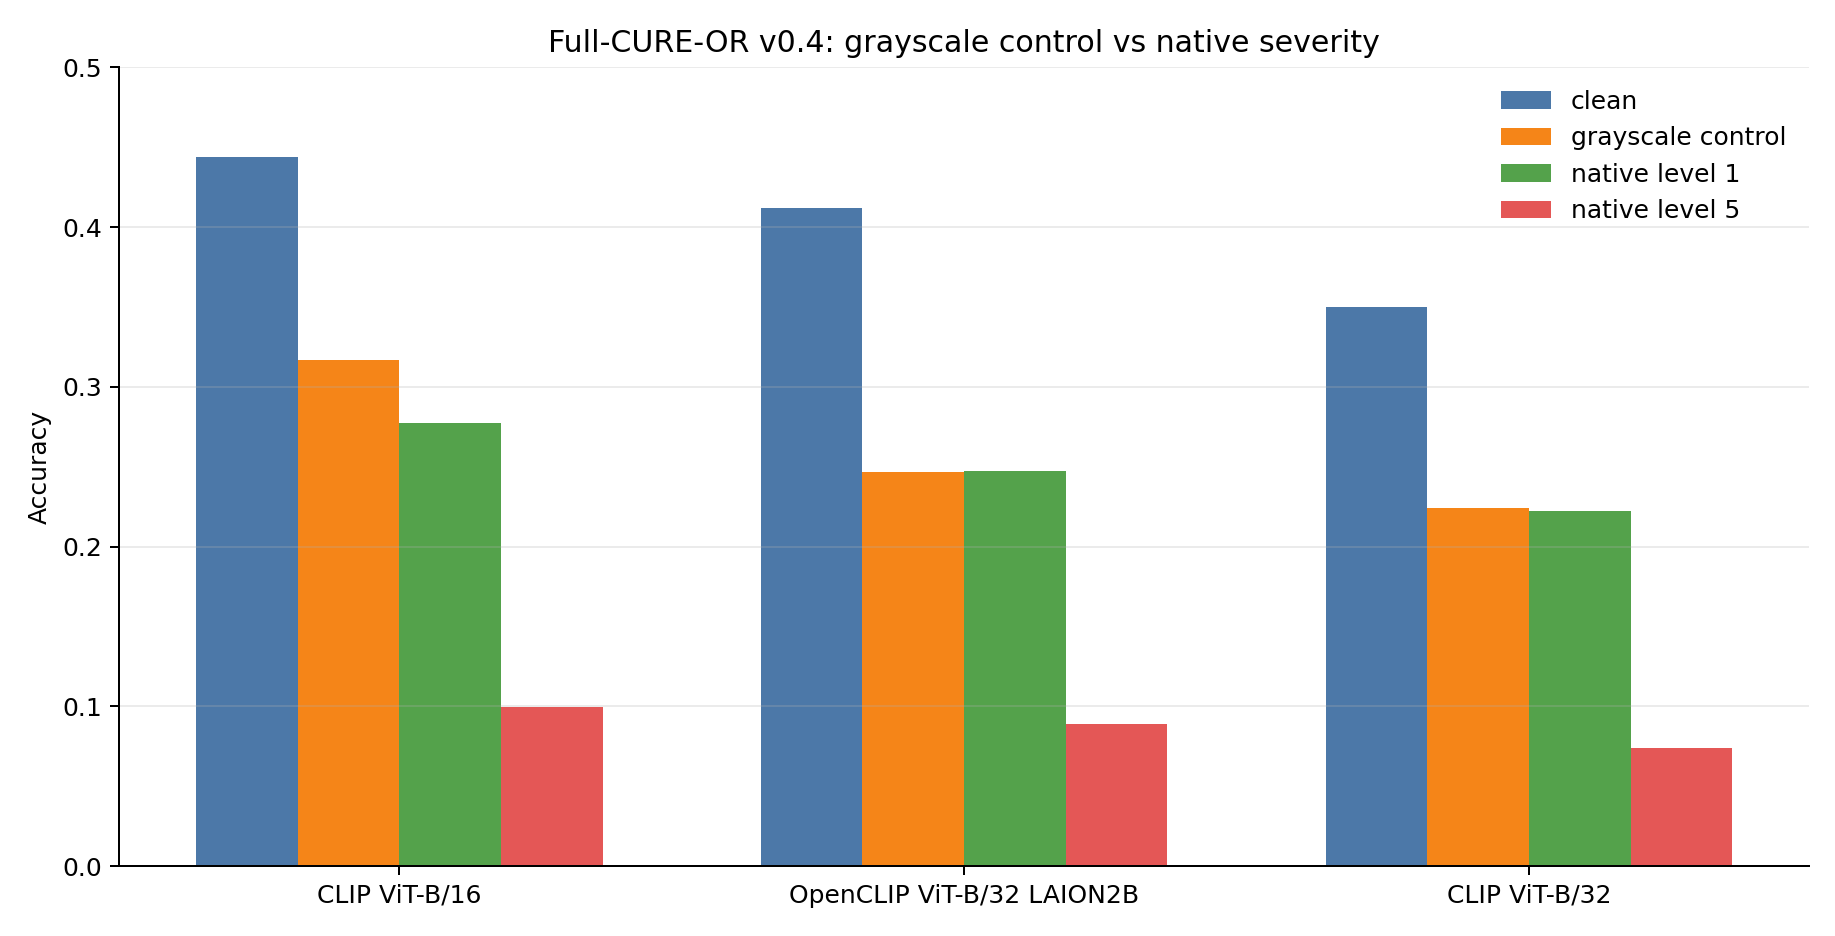
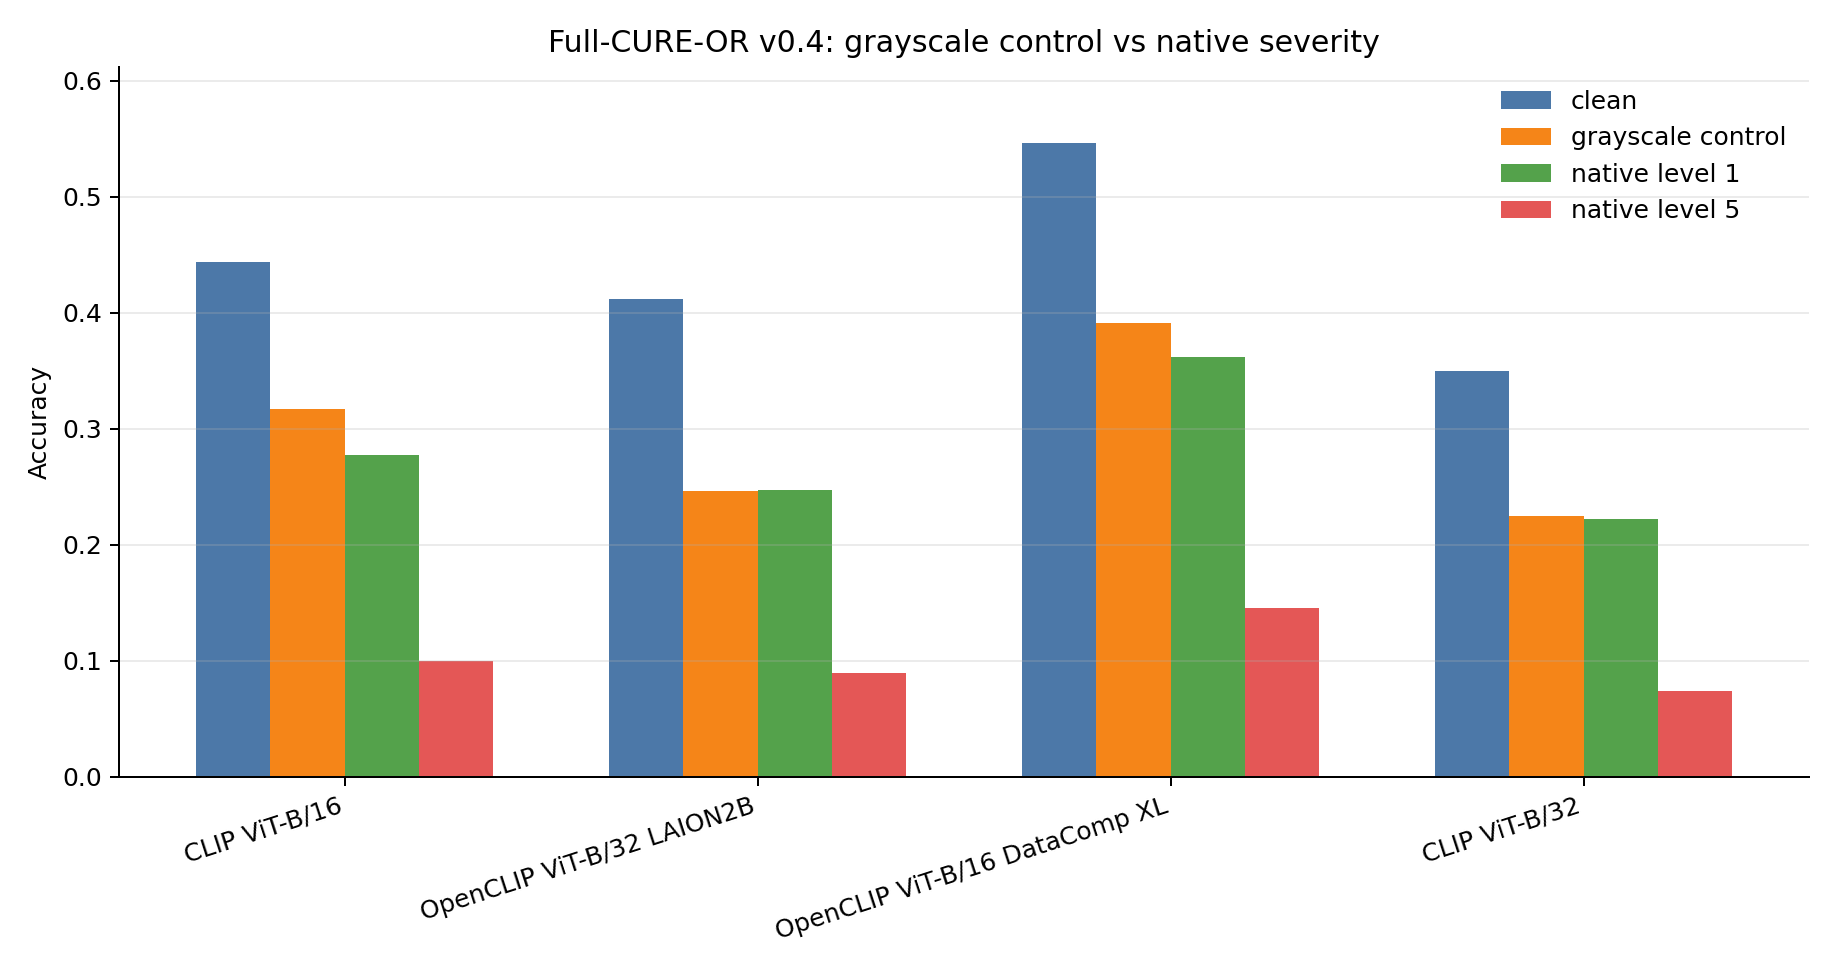
Add DataComp XL grayscale control

diff --git a/scripts/evaluate_openclip_zero_shot.py b/scripts/evaluate_openclip_zero_shot.py
@@ -46,10 +46,16 @@ def main() -> int:
         rows = rows[: args.limit]
 
     device = choose_device(args.device, torch)
+    pretrained_source = config["pretrained"]
+    if config.get("pretrained_path"):
+        pretrained_source = str(resolve_project_path(config["pretrained_path"]))
+
     print(f"Loading {config['model_name']} {config['pretrained']} on {device}")
+    if pretrained_source != config["pretrained"]:
+        print(f"Using local checkpoint: {pretrained_source}")
     model, _, preprocess = open_clip.create_model_and_transforms(
         config["model_name"],
-        pretrained=config["pretrained"],
+        pretrained=pretrained_source,
     )
     tokenizer = open_clip.get_tokenizer(config["model_name"])
     model = model.to(device)
@@ -182,7 +188,7 @@ def write_csv(path: Path, rows: list[dict]) -> None:
         path.write_text("", encoding="utf-8")
         return
     with path.open("w", newline="", encoding="utf-8") as handle:
-        writer = csv.DictWriter(handle, fieldnames=list(rows[0].keys()))
+        writer = csv.DictWriter(handle, fieldnames=list(rows[0].keys()), lineterminator="\n")
         writer.writeheader()
         writer.writerows(rows)
 

diff --git a/reports/full_cure_or_grayscale_control_v04.md b/reports/full_cure_or_grayscale_control_v04.md
@@ -28,12 +28,14 @@ disk.
 | --- | ---: | ---: | ---: | ---: | ---: | ---: |
 | CLIP ViT-B/16 | 0.4440 | 0.3166 | 0.1274 | 0.2772 | 0.0994 | 0.2172 |
 | OpenCLIP ViT-B/32 LAION2B | 0.4120 | 0.2465 | 0.1655 | 0.2473 | 0.0890 | 0.1575 |
+| OpenCLIP ViT-B/16 DataComp XL | 0.5460 | 0.3908 | 0.1552 | 0.3620 | 0.1451 | 0.2456 |
 | CLIP ViT-B/32 | 0.3500 | 0.2244 | 0.1256 | 0.2220 | 0.0741 | 0.1503 |
 
 The prototype-extended control comparison is generated separately in
 `results/full_cure_or_grayscale_control_v04_with_prototypes_comparison.csv`
 and summarized in `reports/full_cure_or_prototype_v04.md`. That extended table
-now includes HGNetV2-B0, MobileNetV3-Small, ConvNeXt-Tiny, and DINOv2 ViT-S/14.
+now includes OpenCLIP ViT-B/16 DataComp XL, HGNetV2-B0, MobileNetV3-Small,
+ConvNeXt-Tiny, and DINOv2 ViT-S/14.
 
 ## Interpretation
 
@@ -42,8 +44,10 @@ level-5 collapse.
 
 For CLIP ViT-B/16, grayscale no-challenge accuracy is 0.3166, above native
 level-1 mean accuracy of 0.2772 and far above native level-5 mean accuracy of
-0.0994. For OpenCLIP and CLIP ViT-B/32, grayscale control is almost equal to
-native level 1, but still much higher than level 5.
+0.0994. For OpenCLIP ViT-B/32 LAION2B and CLIP ViT-B/32, grayscale control is
+almost equal to native level 1, but still much higher than level 5. DataComp XL
+shows the same separation at a stronger baseline level: grayscale no-challenge
+accuracy is 0.3908, while native level-5 mean accuracy is 0.1451.
 
 This supports a cleaner paper claim: grayscale/channel removal contributes to
 the difficulty of grayscale native challenges, but severe blur, noise, dirty
@@ -58,6 +62,7 @@ grayscale conversion alone.
 - `configs/clip_vit_b16_full_cure_or_grayscale_control_v04.json`
 - `configs/clip_vit_b32_full_cure_or_grayscale_control_v04.json`
 - `configs/openclip_vit_b32_laion2b_full_cure_or_grayscale_control_v04.json`
+- `configs/openclip_vit_b16_datacomp_xl_full_cure_or_grayscale_control_v04.json`
 - `configs/full_cure_or_grayscale_control_summaries_v04.json`
 - `data/interim/full_cure_or_grayscale_control_v04_manifest.csv`
 - `results/clip_vit_b16_full_cure_or_grayscale_control_v04_predictions.csv`
@@ -66,6 +71,8 @@ grayscale conversion alone.
 - `results/clip_vit_b32_full_cure_or_grayscale_control_v04_summary.csv`
 - `results/openclip_vit_b32_laion2b_full_cure_or_grayscale_control_v04_predictions.csv`
 - `results/openclip_vit_b32_laion2b_full_cure_or_grayscale_control_v04_summary.csv`
+- `results/openclip_vit_b16_datacomp_xl_full_cure_or_grayscale_control_v04_predictions.csv`
+- `results/openclip_vit_b16_datacomp_xl_full_cure_or_grayscale_control_v04_summary.csv`
 - `results/full_cure_or_grayscale_control_v04_comparison.csv`
 - `results/full_cure_or_grayscale_control_v04_comparison.png`
 
@@ -95,9 +102,13 @@ HF_HUB_OFFLINE=1 TRANSFORMERS_OFFLINE=1 \
   --config configs/openclip_vit_b32_laion2b_full_cure_or_grayscale_control_v04.json \
   --device cpu
 
+.venv/bin/python scripts/evaluate_openclip_zero_shot.py \
+  --config configs/openclip_vit_b16_datacomp_xl_full_cure_or_grayscale_control_v04.json \
+  --device cpu
+
 .venv/bin/python scripts/compare_full_cure_or_control.py \
   --config configs/full_cure_or_grayscale_control_summaries_v04.json \
-  --native-comparison results/full_cure_or_probe_v04_expanded_comparison.csv \
+  --native-comparison results/full_cure_or_probe_v04_with_prototypes_comparison.csv \
   --output results/full_cure_or_grayscale_control_v04_comparison.csv
 
 MPLCONFIGDIR=/private/tmp/cure_or_pp_mpl MPLBACKEND=Agg \

diff --git a/reports/full_cure_or_probe_v04_status.md b/reports/full_cure_or_probe_v04_status.md
@@ -108,10 +108,12 @@ gap and a 0.3240 high-confidence wrong rate. Its worst level-5 overconfidence
 case is type 18, grayscale salt-and-pepper noise: 0.0100 accuracy with 0.7393
 mean confidence. Details are in `reports/full_cure_or_confidence_v04.md`.
 
-The type-10 grayscale no-challenge control is also complete. It uses 499 paired
-control rows and shows that grayscale alone is damaging but cannot explain the
-native level-5 collapse. CLIP ViT-B/16 accuracy is 0.3166 on grayscale control
-versus 0.0994 on native level 5. Details are in
+The type-10 grayscale no-challenge control is also complete for the four usable
+CLIP/OpenCLIP-family zero-shot baselines. It uses 499 paired control rows and
+shows that grayscale alone is damaging but cannot explain the native level-5
+collapse. CLIP ViT-B/16 accuracy is 0.3166 on grayscale control versus 0.0994
+on native level 5. DataComp XL accuracy is 0.3908 on grayscale control versus
+0.1451 on native level 5. Details are in
 `reports/full_cure_or_grayscale_control_v04.md`.
 
 The non-CLIP prototype pass is also complete. It adds HGNetV2-B0,

diff --git a/reports/full_cure_or_prototype_v04.md b/reports/full_cure_or_prototype_v04.md
@@ -46,9 +46,10 @@ disk.
 | DINOv2 ViT-S/14 Prototype | 0.7520 | 0.7415 | 0.4393 | 0.5884 | 0.4940 | 0.4354 | 0.3819 | 0.2766 |
 
 For context, the strongest zero-shot baseline in the current v0.4 block is
-CLIP ViT-B/16 with clean accuracy 0.4440 and mean level-5 native accuracy
-0.0994. DINOv2 ViT-S/14 is the strongest current baseline on clean accuracy,
-grayscale control, mean native accuracy, and every native challenge level.
+OpenCLIP ViT-B/16 DataComp XL with clean accuracy 0.5460, grayscale-control
+accuracy 0.3908, and mean level-5 native accuracy 0.1451. DINOv2 ViT-S/14 is
+the strongest current baseline on clean accuracy, grayscale control, mean native
+accuracy, and every native challenge level.
 ConvNeXt-Tiny is the second strongest prototype on mean native and level-5
 native accuracy. MobileNetV3-Small is weaker than HGNetV2-B0, ConvNeXt-Tiny,
 and DINOv2, but its mean native accuracy is close to CLIP ViT-B/16 while using a

diff --git a/reports/full_cure_or_readiness_v01.md b/reports/full_cure_or_readiness_v01.md
@@ -25,8 +25,8 @@ Completed locally:
   diagnostic result.
 - v0.4 confidence-collapse and calibration analysis for the four usable
   CLIP/OpenCLIP-family zero-shot baselines.
-- v0.4 type-10 grayscale no-challenge control for the first three usable
-  zero-shot baselines.
+- v0.4 type-10 grayscale no-challenge control for the four usable
+  CLIP/OpenCLIP-family zero-shot baselines.
 - v0.4 leave-clean-condition-out prototype baselines with HGNetV2-B0,
   MobileNetV3-Small, ConvNeXt-Tiny, and DINOv2 ViT-S/14.
 - v0.4 OpenCLIP ViT-B/16 DataComp XL stronger-baseline run.
@@ -169,6 +169,7 @@ Grayscale control result:
 | --- | ---: | ---: | ---: | ---: |
 | CLIP ViT-B/16 | 0.4440 | 0.3166 | 0.1274 | 0.0994 |
 | OpenCLIP ViT-B/32 LAION2B | 0.4120 | 0.2465 | 0.1655 | 0.0890 |
+| OpenCLIP ViT-B/16 DataComp XL | 0.5460 | 0.3908 | 0.1552 | 0.1451 |
 | CLIP ViT-B/32 | 0.3500 | 0.2244 | 0.1256 | 0.0741 |
 | HGNetV2-B0 Prototype | 0.6240 | 0.4429 | 0.1811 | 0.1219 |
 | MobileNetV3-Small Prototype | 0.5560 | 0.2846 | 0.2714 | 0.0960 |
@@ -271,6 +272,8 @@ Artifacts:
 - `results/dinov2_vit_small_patch14_full_cure_or_prototype_v04_summary.csv`
 - `configs/openclip_vit_b16_datacomp_xl_full_cure_or_probe_v04.json`
 - `results/openclip_vit_b16_datacomp_xl_full_cure_or_probe_v04_summary.csv`
+- `configs/openclip_vit_b16_datacomp_xl_full_cure_or_grayscale_control_v04.json`
+- `results/openclip_vit_b16_datacomp_xl_full_cure_or_grayscale_control_v04_summary.csv`
 - `results/full_cure_or_probe_v04_with_prototypes_comparison.csv`
 - `results/full_cure_or_probe_v04_with_prototypes_level5_ranking.csv`
 - `results/full_cure_or_probe_v04_with_prototypes_mean_accuracy_by_level.png`

diff --git a/docs/serious_level_plan.md b/docs/serious_level_plan.md
@@ -173,6 +173,7 @@ Do not publish the main Kaggle version until these are done:
   - paired grayscale control rows: 499;
   - CLIP ViT-B/16 grayscale control accuracy: 0.3166;
   - OpenCLIP grayscale control accuracy: 0.2465;
+  - DataComp XL grayscale control accuracy: 0.3908;
   - CLIP ViT-B/32 grayscale control accuracy: 0.2244;
   - conclusion: grayscale alone is damaging but does not explain native
     level-5 collapse.
@@ -276,5 +277,4 @@ For arXiv or workshop seriousness, add:
 4. Add confidence-collapse and calibration tables for each further usable
    zero-shot/VLM Full-CURE-OR model.
 5. Add type 10, grayscale no-challenge, as a separate control condition,
-   completed for the first three CLIP/OpenCLIP zero-shot baselines and still
-   open for DataComp XL.
+   completed for the current four CLIP/OpenCLIP-family zero-shot baselines.

diff --git a/README.md b/README.md
@@ -168,6 +168,8 @@ level-5 accuracy but still retains 0.4997 mean confidence, while OpenCLIP
 ViT-B/32 LAION2B reaches 0.0890 accuracy with 0.4781 confidence. The grayscale
 control adds a third
 guardrail: grayscale alone hurts, but it does not explain level-5 collapse.
+DataComp XL reaches 0.3908 on grayscale no-challenge control while falling to
+0.1451 on native level 5.
 The prototype pass adds a fourth finding: non-CLIP frozen-feature classifiers
 produce different level-5 robustness rankings. HGNetV2-B0 and
 MobileNetV3-Small make gaussian blur a top collapse case, while ConvNeXt-Tiny